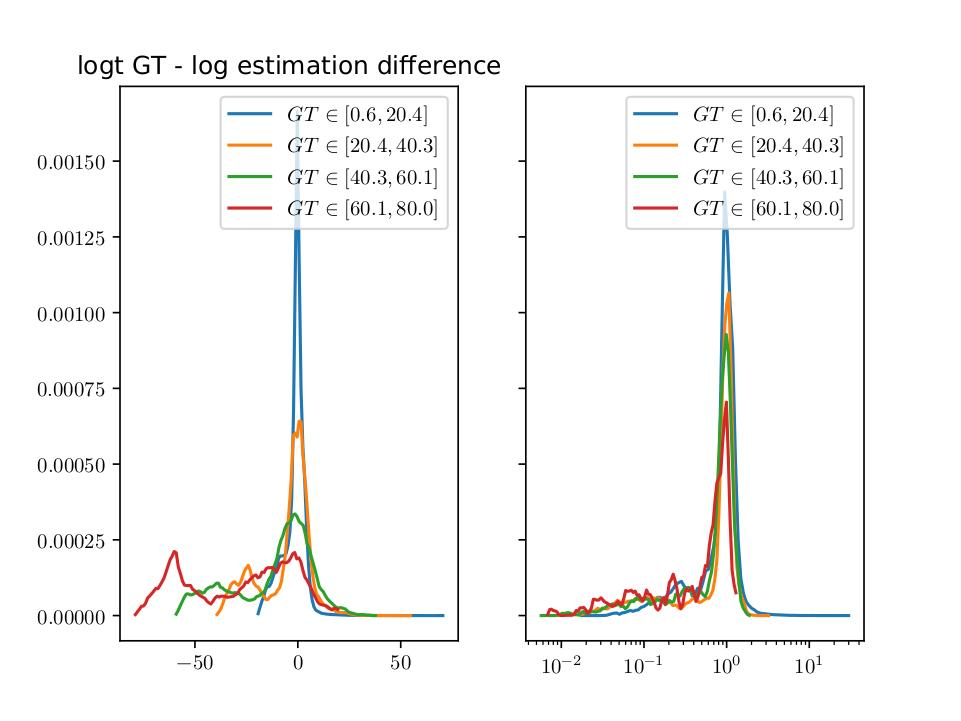
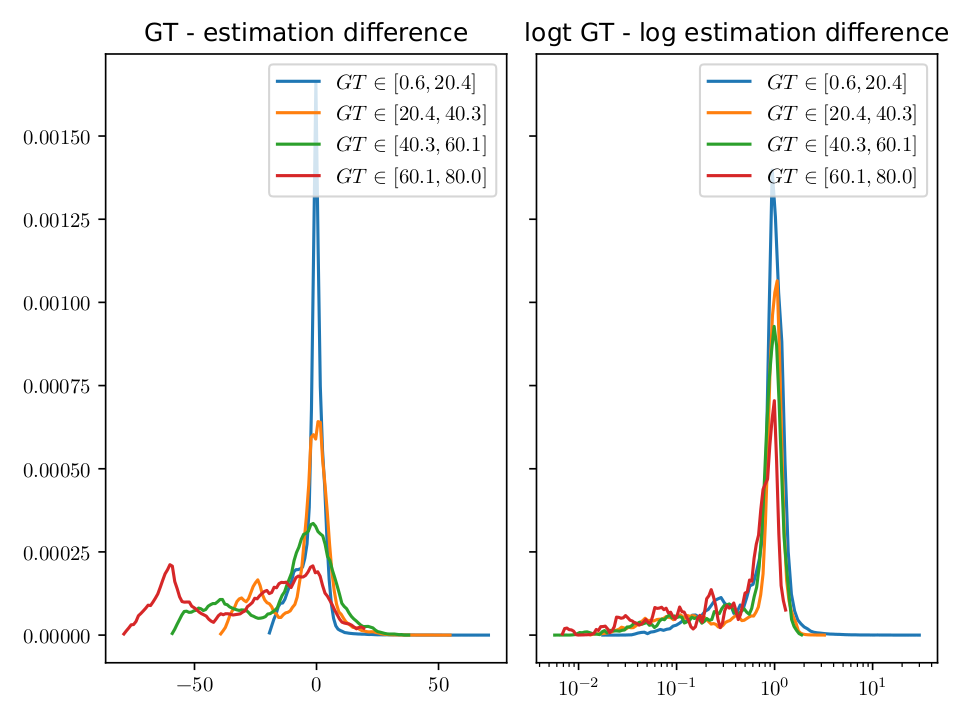
Update gtwise plots to have fitting texts

Changed region(s): [[0.0312, 0.0305, 0.999, 0.9764]]

diff --git a/evaluation_toolkit/evaluation_toolkit/depth_evaluation.py b/evaluation_toolkit/evaluation_toolkit/depth_evaluation.py
@@ -344,7 +344,6 @@ def main():
             histograms[name]["quantiles_per_gt"] = group_quantiles(df, "GT", ["absdiff", "abslogdiff"])
             histograms[name]["quantiles_per_estimation"] = group_quantiles(df, "estim", ["absdiff", "abslogdiff"])
 
-
         # PLOTTING
         colors = plt.rcParams['axes.prop_cycle'].by_key()['color']
         # First plot, general insight for dataset
@@ -381,7 +380,8 @@ def main():
             axes[0].legend()
             axes[0].set_title("GT - estimation difference")
             axes[1].legend()
-            axes[0].set_title("logt GT - log estimation difference")
+            axes[1].set_title("logt GT - log estimation difference")
+            fig2.tight_layout()
             if args.output_figures is not None:
                 fig2.savefig(args.output_figures / "GTwise_depth_diff_{}.{}".format(name, savefig_ext))
 
